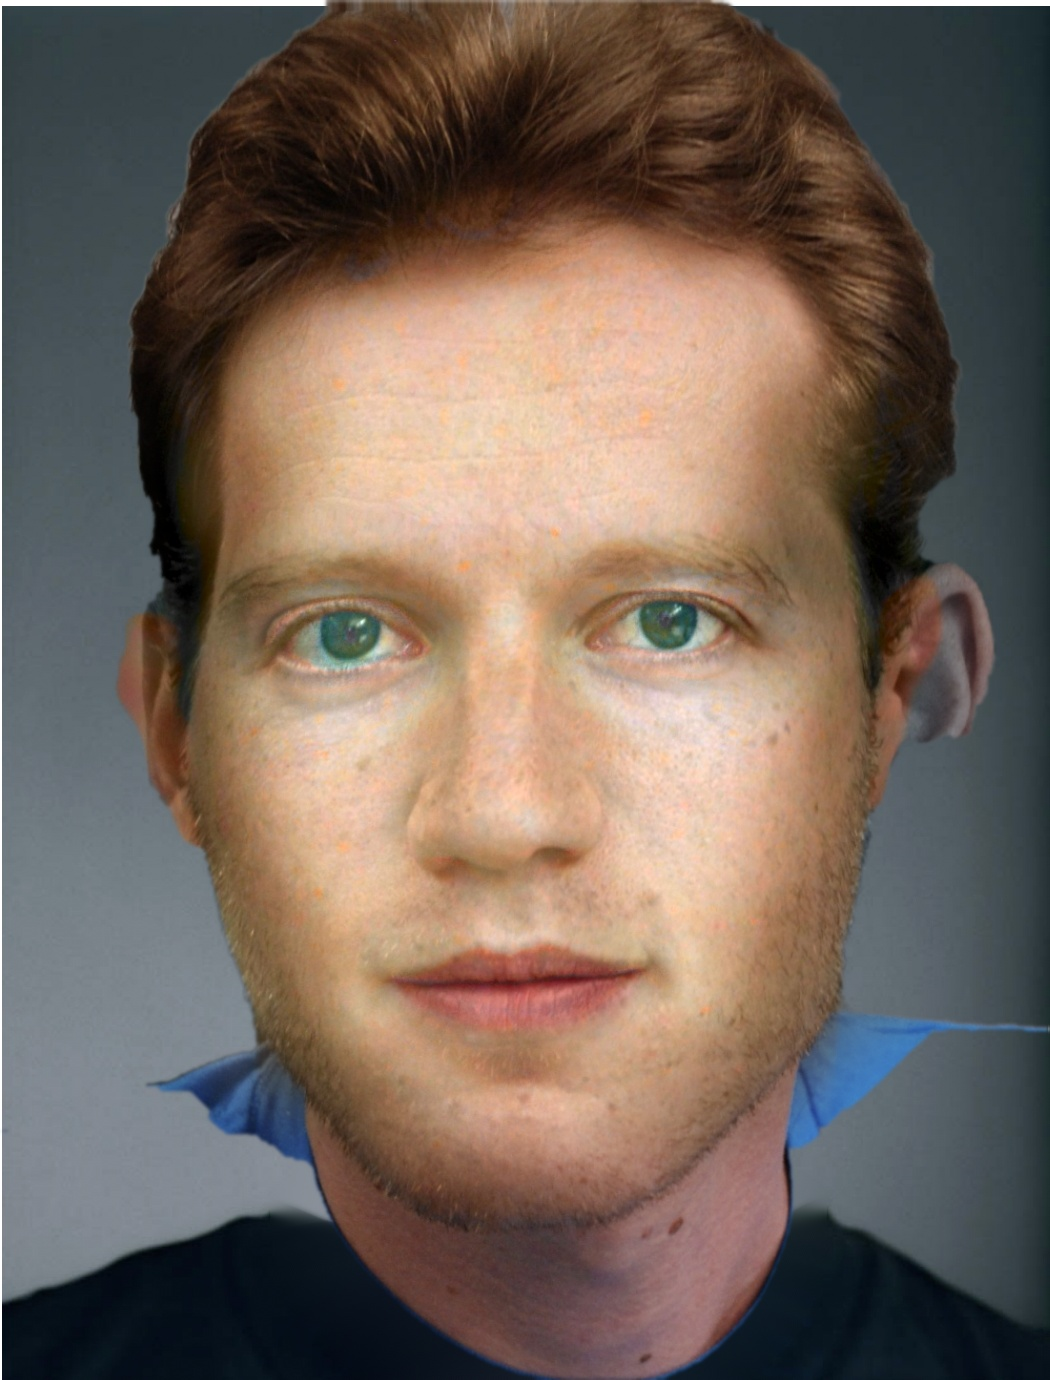
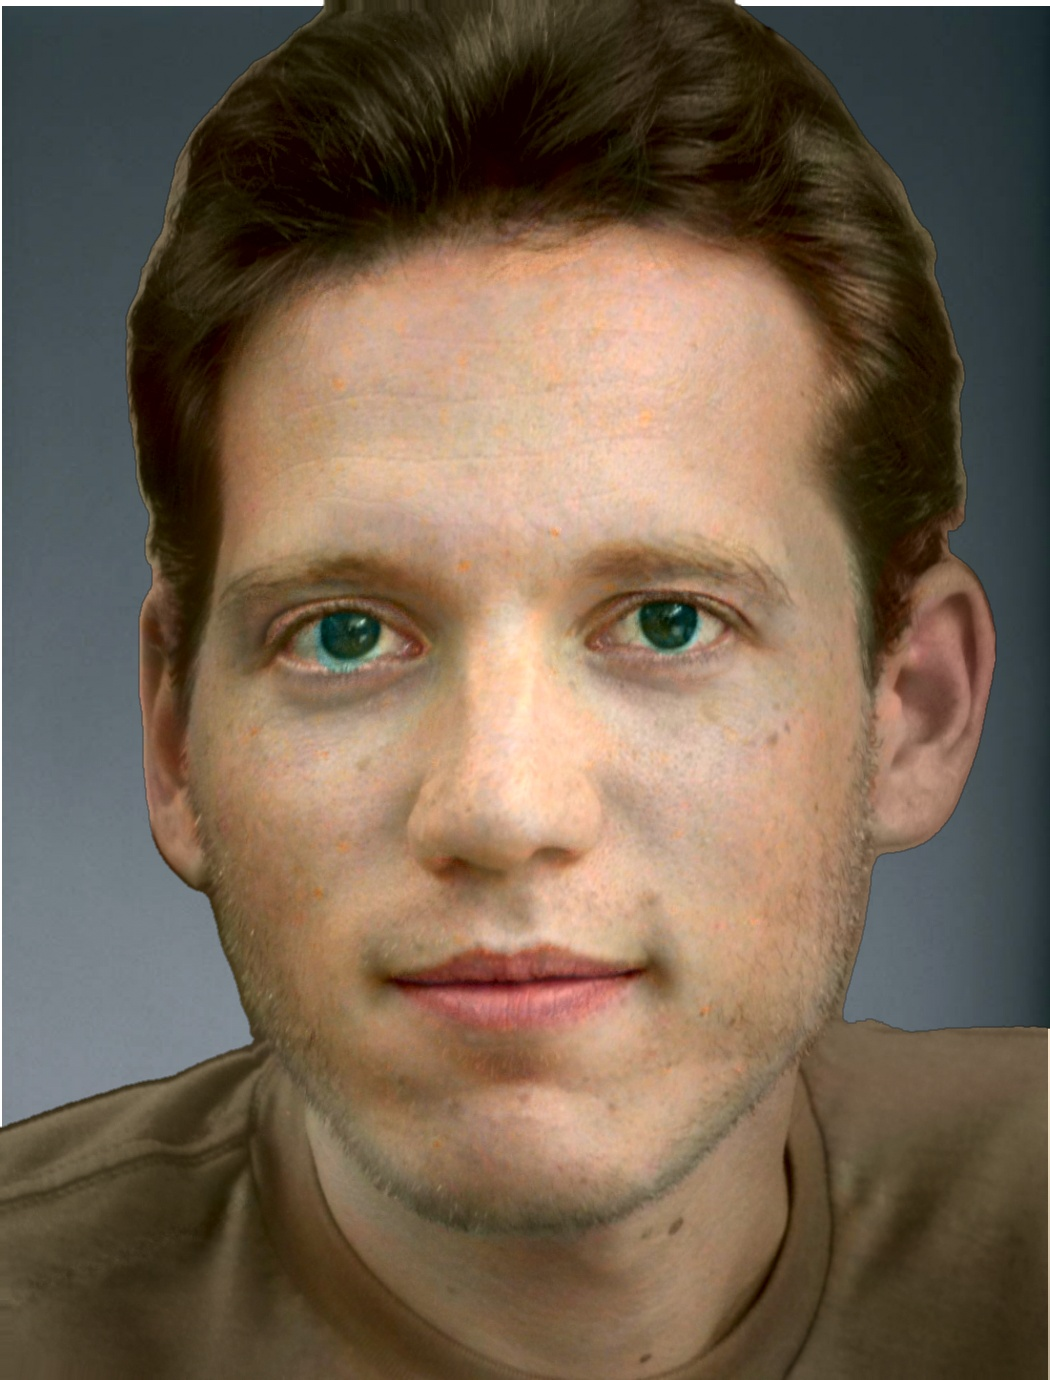
ajuste de mascara e background

diff --git a/background.py b/background.py
@@ -1,124 +1,51 @@
 import cv2
 import numpy as np
-from typing import List, Tuple
 
-def __get_extended_hull_mask(
-    shape: Tuple[int, int], 
-    landmarks: List[Tuple[int, int]]
-) -> Tuple[cv2.typing.MatLike, np.ndarray]:
-    h, w = shape[:2]
-    mask = np.zeros((h, w), dtype=np.uint8)
-    
-    points = np.array(landmarks, dtype=np.int32)
-    
-    eyebrow_left_outer = points[17]
-    eyebrow_right_outer = points[26]
-    nose_top = points[27]
-    
-    face_height = np.linalg.norm(points[8] - points[27]) 
-    forehead_height = face_height * 0.8 
-    
-    p1 = (int(eyebrow_left_outer[0]), int(eyebrow_left_outer[1] - forehead_height))
-    p2 = (int(eyebrow_right_outer[0]), int(eyebrow_right_outer[1] - forehead_height))
-    p3 = (int(nose_top[0]), int(nose_top[1] - forehead_height * 1.1))
-    
-    extended_points = np.vstack([points, np.array([p1, p2, p3], dtype=np.int32)])
-    
-    hull = cv2.convexHull(extended_points)
-    
-    cv2.fillConvexPoly(mask, hull, cv2.GC_FGD) 
-    
-    return mask, hull
+from rembg import remove, new_session
 
-def __get_segmentation_mask(
+session = new_session("u2net")
+
+def get_segmentation_mask(
     img: cv2.typing.MatLike, 
-    landmarks: List[Tuple[int, int]]
 ) -> cv2.typing.MatLike:
-    height, width = img.shape[:2]
-    mask = np.zeros(img.shape[:2], np.uint8)
-
-    points = np.array(landmarks, dtype=np.int32)
-    x, y, w, h = cv2.boundingRect(points)
     
-    pad_w = int(w * 0.3)     
-    pad_h_top = int(h * 0.8)  
-    pad_h_bot = int(h * 0.5) 
+    result = remove(img, session=session)
     
-    rect_x = x - pad_w
-    rect_y = y - pad_h_top
-    rect_w = w + 2 * pad_w
-    rect_h = h + pad_h_top + pad_h_bot
+    mask = result[:, :, 3]
     
-    rect_x = max(0, rect_x)
-    rect_y = max(0, rect_y)
-    rect_w = min(width - rect_x, rect_w)
-    rect_h = min(height - rect_y, rect_h)
-
-    if rect_w >= width:
-        rect_x += 1
-        rect_w -= 2
-    if rect_h >= height:
-        rect_y += 1
-        rect_h -= 2
-
-    rect_w = max(1, rect_w)
-    rect_h = max(1, rect_h)
-    
-    rect = (int(rect_x), int(rect_y), int(rect_w), int(rect_h))
-
-    bgdModel = np.zeros((1, 65), np.float64)
-    fgdModel = np.zeros((1, 65), np.float64)
-    
-    try:
-        cv2.grabCut(img, mask, rect, bgdModel, fgdModel, 5, cv2.GC_INIT_WITH_RECT)
-        
-        _, hull = __get_extended_hull_mask(img.shape, landmarks)
-        cv2.fillConvexPoly(mask, hull, cv2.GC_FGD)
-        
-        cv2.grabCut(img, mask, rect, bgdModel, fgdModel, 5, cv2.GC_INIT_WITH_MASK)
-        
-    except cv2.error as e:
-        print(f"Warning: GrabCut failed (likely rect size issue). Using Convex Hull fallback. Error: {e}")
-        mask.fill(0)
-        _, hull = __get_extended_hull_mask(img.shape, landmarks)
-        cv2.fillConvexPoly(mask, hull, 255) 
-        return mask
-
-    mask_binary = np.where((mask == 2) | (mask == 0), 0, 255).astype('uint8')
+    _, mask_binary = cv2.threshold(mask, 10, 255, cv2.THRESH_BINARY)
     
     return mask_binary
 
-def __inpainting_background_extraction(
+
+def inpainting_background_extraction(
     img: cv2.typing.MatLike, 
     subject_mask: cv2.typing.MatLike
 ) -> cv2.typing.MatLike:
-    dilated_mask = cv2.dilate(subject_mask, None, iterations=10)
+
+    dilated_mask = cv2.dilate(subject_mask, None, iterations=3)
+
     clean_bg = cv2.inpaint(img, dilated_mask, 5, cv2.INPAINT_TELEA)
     return clean_bg
 
+
 def replace_background(
-    input_img: cv2.typing.MatLike, 
-    example_img: cv2.typing.MatLike, 
-    input_landmarks: List[Tuple[int, int]], 
-    example_landmarks: List[Tuple[int, int]]
+    foreground_img: cv2.typing.MatLike,
+    background_img: cv2.typing.MatLike,
+    mask: cv2.typing.MatLike
 ) -> cv2.typing.MatLike:
+
+    h, w = foreground_img.shape[:2]
     
-    input_fg_mask = __get_segmentation_mask(input_img, input_landmarks)
+    bg_resized = cv2.resize(background_img, (w, h))
     
-    example_fg_mask = __get_segmentation_mask(example_img, example_landmarks)
+    mask_float = mask.astype(np.float32) / 255.0
+    mask_float = cv2.GaussianBlur(mask_float, (3, 3), 0)
+    mask_3ch = cv2.merge([mask_float, mask_float, mask_float])
     
-    clean_example_bg = __inpainting_background_extraction(example_img, example_fg_mask)
+    fg_float = foreground_img.astype(np.float32) / 255.0
+    bg_float = bg_resized.astype(np.float32) / 255.0
     
-    h, w = input_img.shape[:2]
-    clean_example_bg_resized = cv2.resize(clean_example_bg, (w, h))
+    final_blended = (fg_float * mask_3ch) + (bg_float * (1.0 - mask_3ch))
     
-    mask_float = input_fg_mask.astype(float) / 255.0
-    mask_float = cv2.GaussianBlur(mask_float, (9, 9), 0) # Soften edges
-    alpha = np.repeat(mask_float[:, :, np.newaxis], 3, axis=2)
-    
-    foreground = input_img.astype(float) * alpha
-    background = clean_example_bg_resized.astype(float) * (1.0 - alpha)
-    
-    final_image = (foreground + background).astype(np.uint8)
-    
-    return final_image
+    return (final_blended * 255).clip(0, 255).astype(np.uint8)

diff --git a/local_contrast_transfer.py b/local_contrast_transfer.py
@@ -2,15 +2,13 @@ import numpy
 import cv2
 from typing import List, Tuple
 
-import utils
-
 def __create_laplacian_stacks(
     image: cv2.typing.MatLike, n: int
 ) -> Tuple[List[cv2.typing.MatLike], cv2.typing.MatLike]:
     laplacian_stack = []
 
     image = image.astype(numpy.float32)
-    sigma = 1.5
+    sigma = 2
 
     for i in range(n):
         if i == 0:
@@ -128,18 +126,48 @@ def __apply_color_transfer(
 
     return result_rgb
 
+def __extend_morphed_colors(
+    morphed_img: cv2.typing.MatLike
+) -> cv2.typing.MatLike:
+
+    lab_morph = cv2.cvtColor(morphed_img, cv2.COLOR_BGR2LAB)
+    a = lab_morph[:,:,1].astype(float)
+    b = lab_morph[:,:,2].astype(float)
+
+    saturation_dist = numpy.sqrt((a - 128.0)**2 + (b - 128.0)**2)
+    
+    gray_mask = (saturation_dist < 13).astype(numpy.uint8) * 255
+    
+    gray_mask = cv2.dilate(gray_mask, None, iterations=2)
+    
+    extended_colors = cv2.inpaint(morphed_img, gray_mask, 5, cv2.INPAINT_TELEA)
+    
+    return extended_colors
+
 
 def apply_local_contrast_and_blend(
     input_img: cv2.typing.MatLike,
     morphed_img: cv2.typing.MatLike,
     input_img_color: cv2.typing.MatLike,
+    segmentation_mask: cv2.typing.MatLike,
+    clean_background: cv2.typing.MatLike, 
     stack_levels: int = 7,
-) -> Tuple[cv2.typing.MatLike, cv2.typing.MatLike]:
+) -> cv2.typing.MatLike:
+
+    h, w = input_img.shape[:2]
+
+    mask_float = segmentation_mask.astype(numpy.float32) / 255.0
+    mask_float = cv2.GaussianBlur(mask_float, (3, 3), 0)
+    mask_3ch = cv2.merge([mask_float, mask_float, mask_float])
+
+    bg_ex = cv2.resize(clean_background, (w, h)).astype(numpy.float32) / 255.0
+
+    input_rgb_float = input_img_color.astype(numpy.float32) / 255.0
+    
+    input_composited = (input_rgb_float * mask_3ch) + (bg_ex * (1.0 - mask_3ch))
 
     # tons de cinza
-    input_gray = (
-        cv2.cvtColor(input_img, cv2.COLOR_BGR2GRAY).astype(numpy.float32) / 255.0
-    )
+    input_gray = cv2.cvtColor(input_composited.astype(numpy.float32), cv2.COLOR_BGR2GRAY)
     example_gray = (
         cv2.cvtColor(morphed_img, cv2.COLOR_BGR2GRAY).astype(numpy.float32) / 255.0
     )
@@ -155,29 +183,19 @@ def apply_local_contrast_and_blend(
     # mapas de calor
     new_stack = __transfer_style(stacks_input, energy_input, energy_output)
 
-    # reconstrução do res do zuck pra iluminação base
     final_result_gray = __reconstruct_image(new_stack, residual_output)
-    gray_uint8 = (final_result_gray * 255).clip(0, 255).astype(numpy.uint8)
-    utils.save_image(gray_uint8, "data/final_result_gray.jpg")
 
-    # cor lab do zuck deformado (output)
+    # colorir partes não usadas no morph
+    extended_color_source = __extend_morphed_colors(morphed_img)
+    
+    # reconstrução do res do zuck pra iluminação base
     final_result_color = __apply_color_transfer(
-        final_result_gray, morphed_img
+        final_result_gray, extended_color_source
     )
 
-    # tentativa FALHA de arrumar a cor da orelha
-    h, w = final_result_color.shape[:2]
-    input_resized = cv2.resize(input_img_color, (w, h))
+    # remoção do fundo
+    final_result_float = final_result_color.astype(numpy.float32) / 255.0
+    
+    final_blended = final_result_float * mask_3ch
 
-    mask = numpy.zeros((h, w), dtype=numpy.float32)
-    center_x, center_y = w // 2, h // 2
-    cv2.circle(mask, (center_x, center_y), int(min(h, w) * 0.45), 1.0, -1)
-    mask = cv2.GaussianBlur(mask, (0, 0), sigmaX=50, sigmaY=50)
-    mask_3ch = cv2.merge([mask, mask, mask])
-
-    final_blended = (
-        final_result_color.astype(float) * mask_3ch
-        + input_resized.astype(float) * (1.0 - mask_3ch)
-    ).astype(numpy.uint8)
-
-    return final_blended, final_result_color
+    return (final_blended * 255).clip(0, 255).astype(numpy.uint8)

diff --git a/main.py b/main.py
@@ -4,35 +4,37 @@ import dense_correspondence
 import local_contrast_transfer
 import background
 
-
 def main(arg1: str, arg2: str):
     try:
         input_img = utils.read_image(arg1)
         example_img = utils.read_image(arg2)
 
-        # backup da imagem pq deu errado sem isso e com isso tbm da, mass fica melhor
-        # o problema é q a camiseta do rapaz fica azul
-        input_img_color = input_img.copy()
+        print("Realizando morph...")
+        morphed_img = dense_correspondence.dense_morph(input_img, example_img)
+        utils.save_image(morphed_img, "data/morphed.jpg")
 
-        # geometria e deformação
-        output = dense_correspondence.dense_morph(input_img, example_img)
+        print("Extraindo background...")
+        mask_in = background.get_segmentation_mask(input_img)
+        mask_ex = background.get_segmentation_mask(example_img)
+        clean_bg_ex = background.inpainting_background_extraction(example_img, mask_ex)
 
-        utils.save_image(output, "data/morphed.jpg")
-
-        final_blended, final_result_color = (
-            local_contrast_transfer.apply_local_contrast_and_blend(
-                input_img,
-                output,
-                input_img_color,
-            )
+        print("Style transfer...")
+        face_on_black = local_contrast_transfer.apply_local_contrast_and_blend(
+            input_img=input_img,
+            morphed_img=morphed_img,
+            input_img_color=input_img,
+            segmentation_mask=mask_in,
+            clean_background=clean_bg_ex
         )
 
-        original_landmarks, example_landmarks = dense_correspondence.detect_landmarks(final_blended, example_img)
-        final_blended = background.replace_background(final_blended, example_img,  original_landmarks, example_landmarks )
+        print("Mistura de backgrounds...")
+        final_result = background.replace_background(
+            foreground_img=face_on_black,
+            background_img=clean_bg_ex,
+            mask=mask_in
+        )
 
-        # res finais
-        utils.save_image(final_blended, "data/final_result_blended.jpg")
-        utils.save_image(final_result_color, "data/final_result_lab.jpg")
+        utils.save_image(final_result, "data/final_result_blended.jpg")
 
     except Exception as e:
         import traceback
